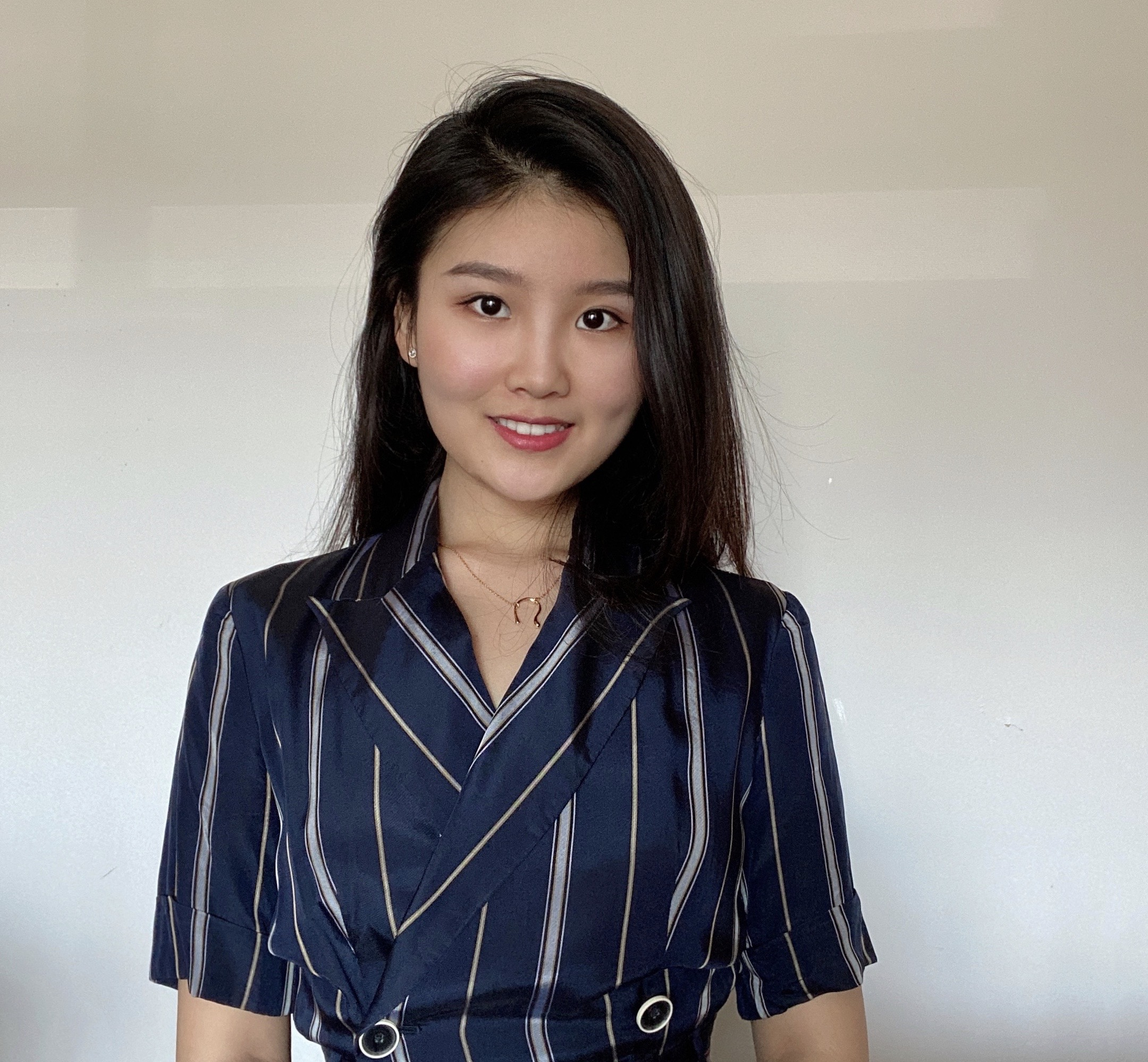
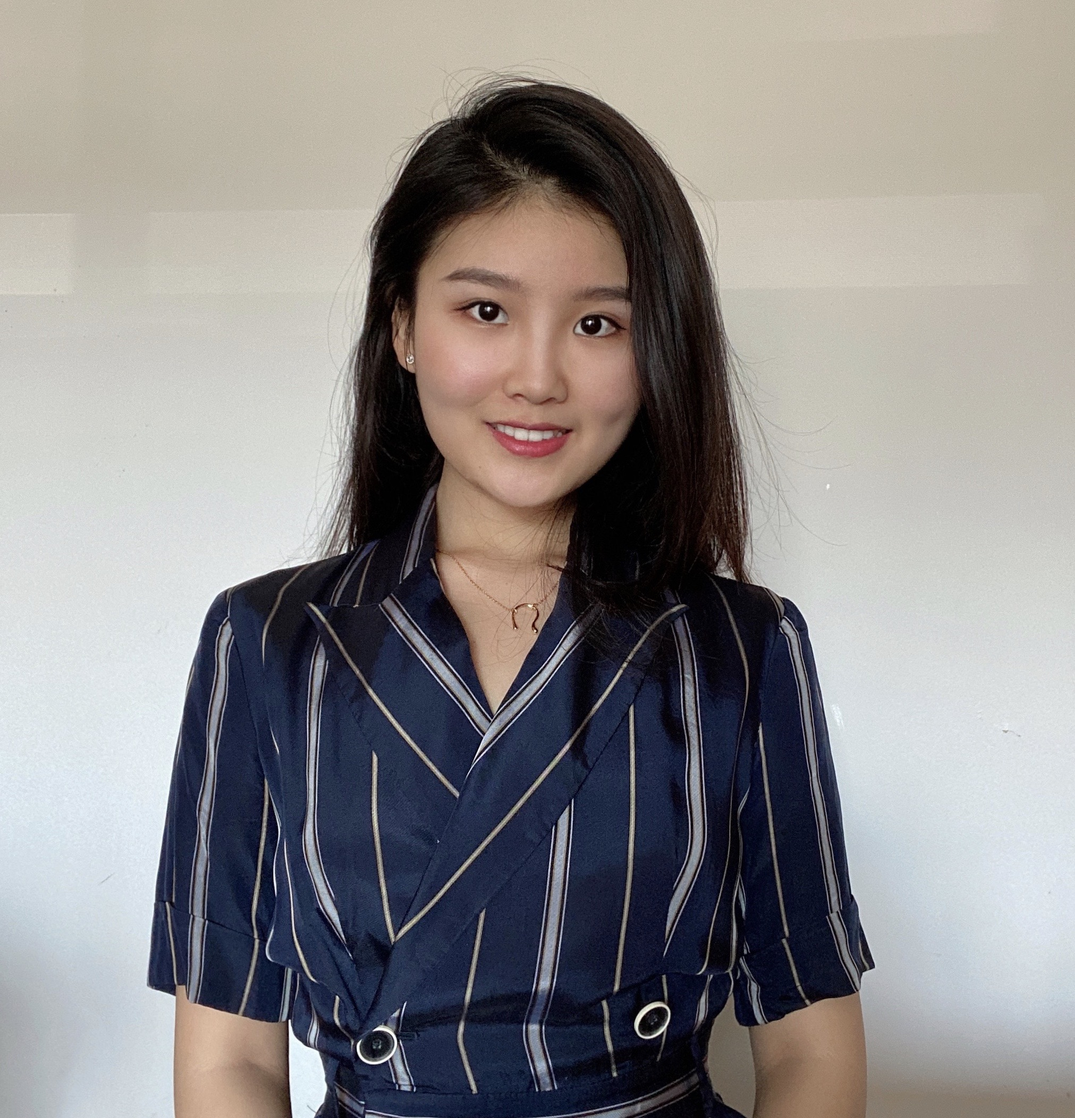
Updates

Changed region(s): [[0.1246, 0.062, 1.0, 1.0], [0.0, 0.8374, 0.0311, 0.8684]]

diff --git a/about.html b/about.html
@@ -54,7 +54,7 @@
       </h1>
       <h2 class="sm-heading">Some facts about me . . .</h2>
       <div class="about-info">
-        <img src="img/IMG_2611.JPG" alt="Wei Liu" class="bio-image" />
+        <img src="img/portrait.JPG" alt="Wei Liu" class="bio-image" />
         <div class="bio">
           <h3 class="text-secondary">A snapshot</h3>
           <p>
